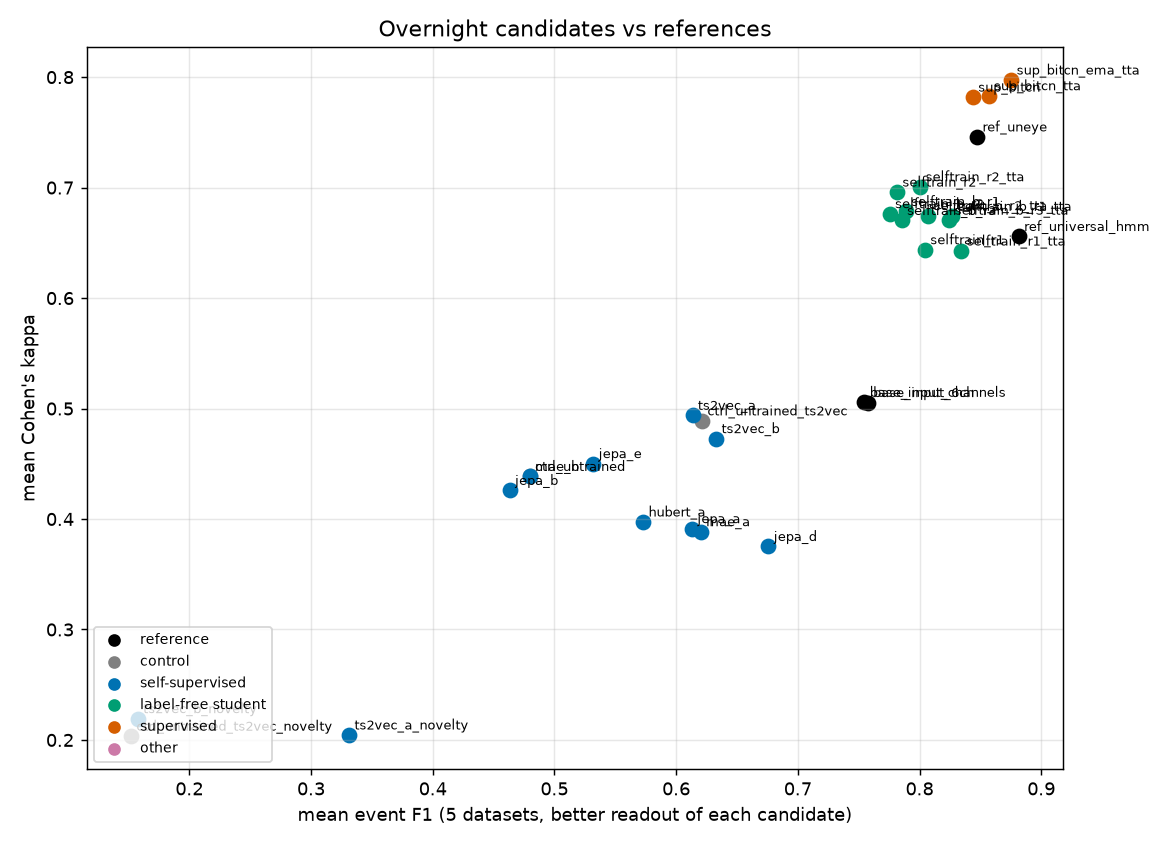
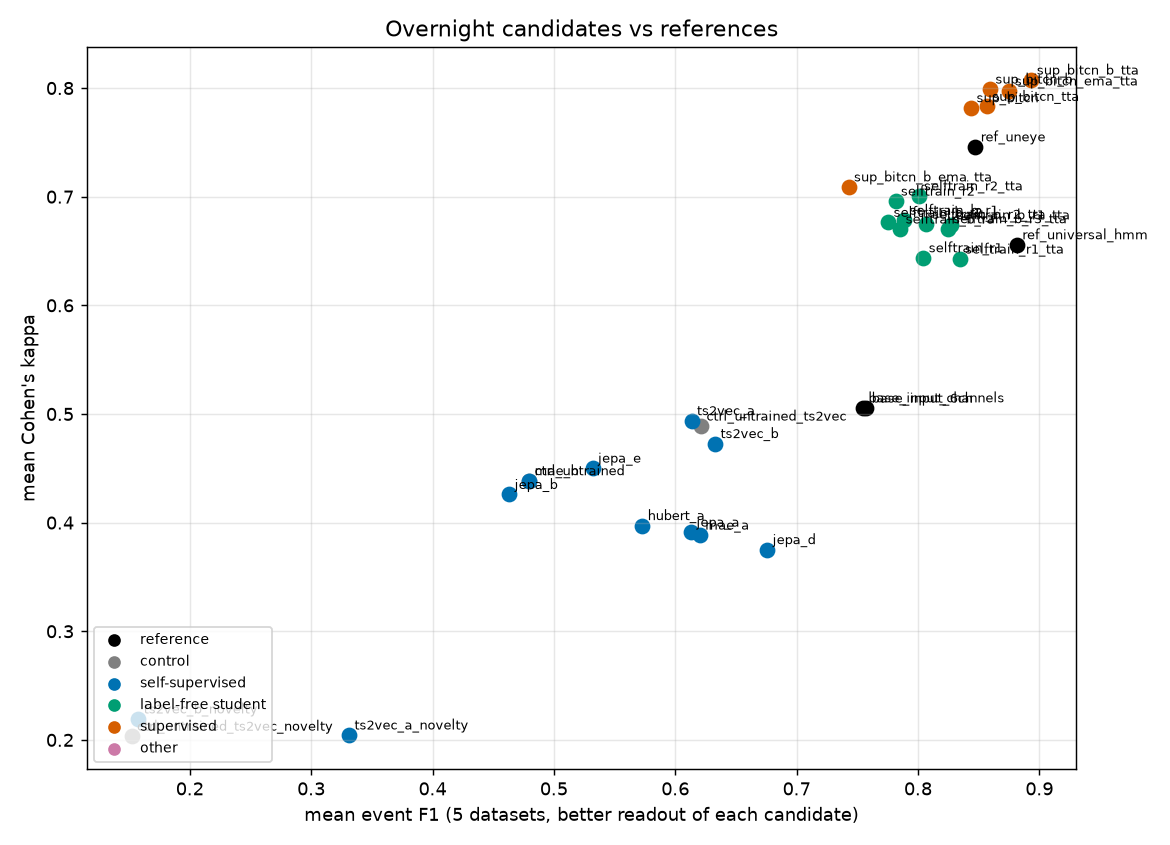
Overnight comparison: sup_bitcn_b (done)

diff --git a/docs/OVERNIGHT_REPORT.md b/docs/OVERNIGHT_REPORT.md
@@ -1,13 +1,13 @@
 # Overnight comparison of candidate architectures and training heuristics
 
-Generated 2026-10-10 03:04 by `foundation/night_report.py` from `foundation/runs/night/*.json` (MacBook Air M1, one GPU job at a time). The numbers are those of the files; nothing is typed by hand in the tables.
+Generated 2026-10-10 03:12 by `foundation/night_report.py` from `foundation/runs/night/*.json` (MacBook Air M1, one GPU job at a time). The numbers are those of the files; nothing is typed by hand in the tables.
 
 ## Summary
 
-- Best mean event F1 over the 5 benchmarks: **sup_bitcn_ema_tta** (0.88 F1, 0.80 kappa, readout: threshold); best mean kappa: **sup_bitcn_ema_tta** (0.88 / 0.80, readout: threshold).
+- Best mean event F1 over the 5 benchmarks: **sup_bitcn_b_tta** (0.89 F1, 0.81 kappa, readout: threshold); best mean kappa: **sup_bitcn_b_tta** (0.89 / 0.81, readout: threshold).
 - Reference U'n'Eye (supervised): 0.85 F1 / 0.75 kappa on the same subsets (Andersson with its general weights is 0.55 / 0.33; with its own weights 0.89 / 0.81). The label-free universal HMM: 0.88 / 0.66.
 - Control: the random-initialised transformer encoder gives 0.48 / 0.44 (hmm): a trained encoder only counts if it beats this.
-- Steps of the night finished: 16; failed or timed out: 0.
+- Steps of the night finished: 17; failed or timed out: 0.
 
 ## Protocol (the same for every row)
 
@@ -76,9 +76,12 @@ Already tried before tonight (not repeated):
 | `selftrain_b_r3` | label-free student | none for training (labeled train splits only select the chec | **0.79 / 0.67** | threshold | 0.64 / 0.60 | 0.79 / 0.67 | 0.90 / 0.76 | 0.87 / 0.80 | 0.79 / 0.61 | 0.90 / 0.86 | 0.47 / 0.32 | 9.2 |
 | `selftrain_r2` | label-free student | none for training (labeled train splits only select the chec | **0.78 / 0.70** | threshold | 0.64 / 0.61 | 0.78 / 0.70 | 0.87 / 0.76 | 0.87 / 0.79 | 0.79 / 0.59 | 0.86 / 0.85 | 0.51 / 0.49 | 4.6 |
 | `selftrain_b_r2` | label-free student | none for training (labeled train splits only select the chec | **0.78 / 0.68** | threshold | 0.65 / 0.61 | 0.78 / 0.68 | 0.89 / 0.76 | 0.88 / 0.79 | 0.81 / 0.63 | 0.89 / 0.86 | 0.41 / 0.34 | 8.0 |
+| `sup_bitcn_b_tta` | supervised | labels of d1+d2+d3 train splits (d4 and Andersson never seen | **0.89 / 0.81** | threshold | 0.59 / 0.39 | 0.89 / 0.81 | 0.93 / 0.87 | 0.95 / 0.92 | 0.93 / 0.82 | 0.91 / 0.84 | 0.75 / 0.59 | 5.7 |
 | `sup_bitcn_ema_tta` | supervised | labels of d1+d2+d3 train splits (d4 and Andersson never seen | **0.88 / 0.80** | threshold | 0.57 / 0.37 | 0.88 / 0.80 | 0.92 / 0.87 | 0.96 / 0.92 | 0.88 / 0.82 | 0.91 / 0.84 | 0.70 / 0.54 | 9.0 |
+| `sup_bitcn_b` | supervised | labels of d1+d2+d3 train splits (d4 and Andersson never seen | **0.86 / 0.80** | threshold | 0.58 / 0.39 | 0.86 / 0.80 | 0.91 / 0.87 | 0.95 / 0.91 | 0.91 / 0.81 | 0.91 / 0.84 | 0.62 / 0.56 | 5.7 |
 | `sup_bitcn_tta` | supervised | labels of d1+d2+d3 train splits (d4 and Andersson never seen | **0.86 / 0.78** | threshold | 0.61 / 0.40 | 0.86 / 0.78 | 0.90 / 0.88 | 0.95 / 0.91 | 0.90 / 0.80 | 0.83 / 0.79 | 0.70 / 0.53 | 9.0 |
 | `sup_bitcn` | supervised | labels of d1+d2+d3 train splits (d4 and Andersson never seen | **0.84 / 0.78** | threshold | 0.60 / 0.40 | 0.84 / 0.78 | 0.89 / 0.88 | 0.94 / 0.91 | 0.88 / 0.80 | 0.82 / 0.79 | 0.68 / 0.53 | 9.0 |
+| `sup_bitcn_b_ema_tta` | supervised | labels of d1+d2+d3 train splits (d4 and Andersson never seen | **0.74 / 0.71** | threshold | 0.60 / 0.37 | 0.74 / 0.71 | 0.80 / 0.83 | 0.89 / 0.89 | 0.63 / 0.55 | 0.86 / 0.82 | 0.54 / 0.46 | 5.7 |
 
 The headline column is the better mean event F1 of the two readouts (shown separately): 'hmm' = the score decoded by the minimum-duration HMM (Gaussian emissions, which suits a probe score of a representation but not the saturated logit of a network), 'threshold' = the score alone. The per-dataset cells use that readout. For `ref_*` rows a single prediction is scored; for `*_novelty` rows only the HMM readout is meaningful.
 
@@ -125,6 +128,7 @@ The headline column is the better mean event F1 of the two readouts (shown separ
 | mae_b | done | 13.3 |
 | label_eff | done | 14.7 |
 | selftrain_b | done | 30.4 |
+| sup_bitcn_b | done | 7.7 |
 
 ## Limits
 
